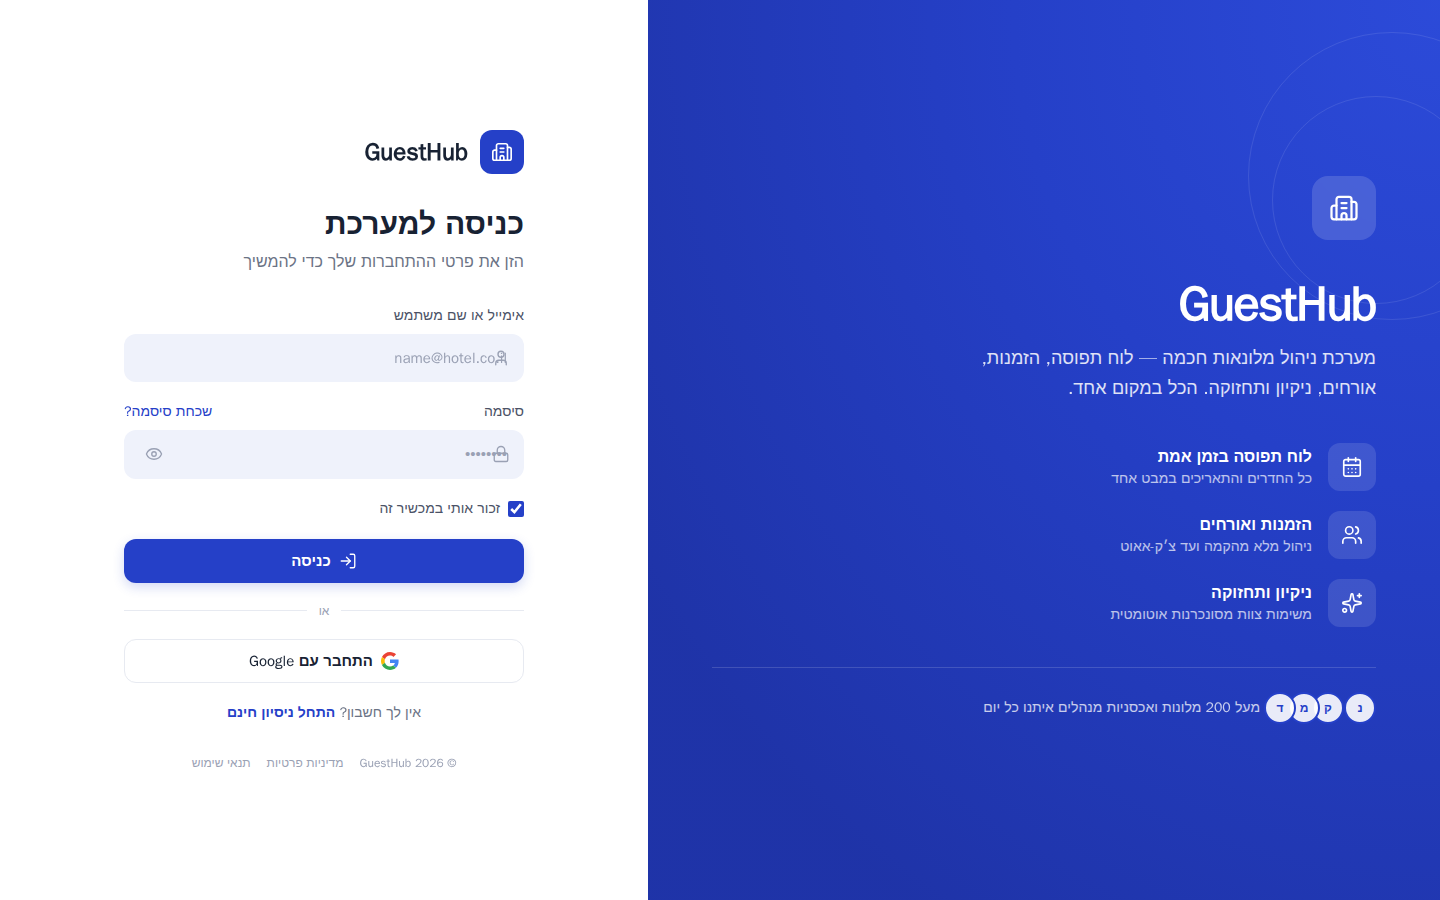
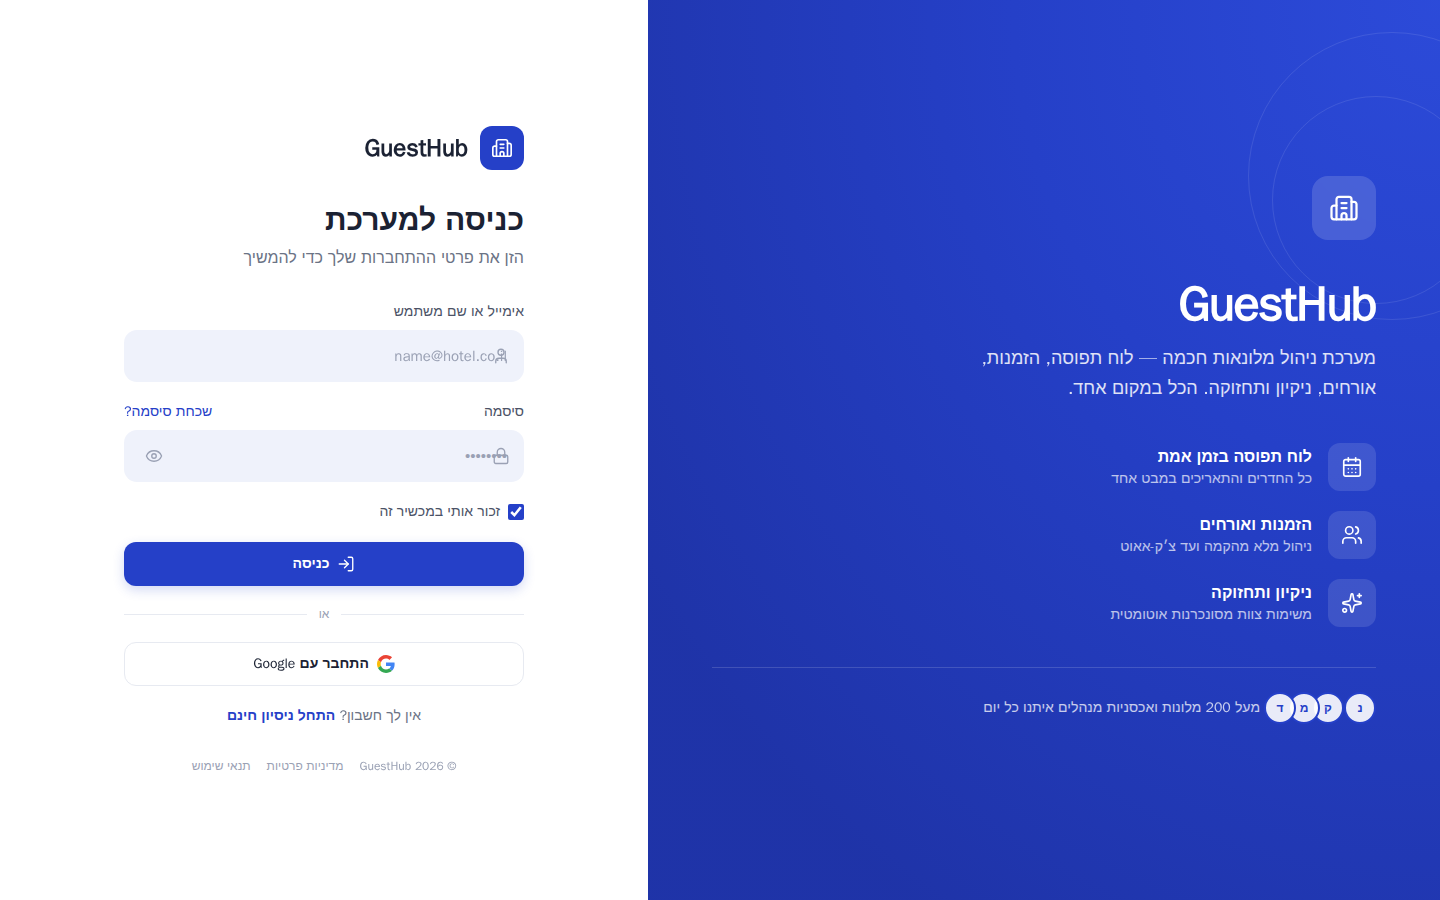
docs(design): binding DESIGN_SYSTEM.md from rendered design system; reconcile base.css
- Rendered ref/html/design-system.html headless (past 'Unpacking…'), captured every
  section to ref/proof/design-system-*.png, and extracted exact tokens from the
  rendered DOM (computed styles + on-screen hex).
- DESIGN_SYSTEM.md: colors, status palette, typography, radius/shadow, icons, and
  component patterns (buttons/inputs/cards/tabs/tables/SidePanel/badges/topbar/sidebar)
  with exact classes/tokens + when to use — a binding reference for every future phase.
- Reconcile base.css to the rendered values (DECISIONS D14): Ink #182233→#1B2233,
  .field radius 12→13px + height 48→52px, .btn 15/600→14/700 + 20px padding
  (min-height kept 44px for touch). Re-captured phase-1 proofs.
- PROJECT_OVERVIEW §17 now names DESIGN_SYSTEM.md as the binding design source; track
  the previously-untracked bundle.

diff --git a/src/app/styles/base.css b/src/app/styles/base.css
@@ -12,7 +12,7 @@
   --color-primary-050: #eef1fd;
 
   /* Text */
-  --color-ink: #182233; /* primary text */
+  --color-ink: #1b2233; /* primary text (rendered design-system value) */
   --color-text2: #4b5266;
   --color-muted: #6b7385;
   --color-faint: #9aa1b4; /* labels */
@@ -79,11 +79,11 @@ a:focus-visible {
   align-items: center;
   justify-content: center;
   gap: 0.5rem;
-  min-height: 44px; /* touch target */
-  padding: 0.625rem 1rem;
+  min-height: 44px; /* touch target — rendered sheet is 42px; rounded up for a11y (D14) */
+  padding: 0.5rem 1.25rem; /* 0 20px per rendered primary button */
   border-radius: 12px;
-  font-weight: 600;
-  font-size: 0.9375rem;
+  font-weight: 700;
+  font-size: 0.875rem; /* 14px */
   line-height: 1.2;
   transition:
     background-color 0.15s ease,
@@ -128,12 +128,12 @@ a:focus-visible {
 /* ---------- Form field ---------- */
 .field {
   width: 100%;
-  min-height: 48px;
+  min-height: 52px; /* rendered design-system input height */
   background: var(--color-field);
   border: 1px solid transparent;
-  border-radius: 12px;
+  border-radius: 13px; /* rendered design-system input radius */
   padding: 0.75rem 1rem;
-  font-size: 0.9375rem;
+  font-size: 0.9375rem; /* 15px */
   color: var(--color-ink);
   transition:
     border-color 0.15s ease,

diff --git a/DESIGN_SYSTEM.md b/DESIGN_SYSTEM.md
@@ -1,0 +1,165 @@
+# GuestHub — DESIGN_SYSTEM.md (v1.0)
+
+**Binding reference. Read this before building ANY UI in any phase.**
+
+Source of truth: the rendered design system `ref/html/design-system.html` (captured to
+`ref/proof/design-system-*.png`). Values below were extracted from the **rendered** DOM
+(computed styles + on-screen hex labels), never from the bundle source. Where a section is
+sourced from `PROJECT_OVERVIEW.md §16` instead (a component the sheet does not draw), it is
+marked _(spec: §16)_.
+
+Implementation lives in `src/app/styles/base.css` (`@theme` tokens + component classes). The
+token utilities named below (`bg-primary`, `text-ink`, …) are generated by Tailwind v4 from
+those `@theme` variables. **No `tailwind.config`.** RTL-first, logical properties only.
+
+---
+
+## 1. Color tokens
+
+### Brand
+| Token | Hex | Tailwind util | Use |
+|---|---|---|---|
+| Primary | `#2540C8` | `bg-primary` / `text-primary` | primary actions, active nav, brand |
+| Primary Dark | `#1C2E9A` | `bg-primary-dark` | primary button hover / pressed |
+| Primary 100 | `#D5DBF6` | `bg-primary-100` | subtle brand fills, chips |
+| Primary 050 | `#EEF1FD` | `bg-primary-050` | active nav pill, accent icon backgrounds |
+
+### Neutrals
+| Token | Hex | Tailwind util | Use |
+|---|---|---|---|
+| Ink (primary text) | `#1B2233` | `text-ink` | headings, primary body text |
+| Text 2 (nav) | `#4B5266` | `text-text2` | nav labels, secondary text, field labels |
+| Muted | `#6B7385` | `text-muted` | supporting/subtitle text |
+| Faint (labels) | `#9AA1B4` | `text-faint` | placeholders, section labels, meta |
+| Line (borders) | `#E7EAF1` | `border-line` | borders, dividers |
+| Field | `#EFF2FB` | `bg-field` | input backgrounds |
+| Surface | `#FFFFFF` | `bg-surface` | cards, sidebar, panels |
+| Hover / search | `#F2F4F8` | `bg-hover` | row hover, topbar search |
+| App BG | `#F1F3F8` | `bg-appbg` | page/app background |
+
+### Status palette (per status: `st` dot/icon · `bg` fill · `bd` border · `tx` text)
+| Status | st | bg | bd | tx |
+|---|---|---|---|---|
+| לא שולם / danger | `#DC2626` | `#FDECEC` | `#F4B9B9` | `#B4231F` |
+| שולם חלקית (teal) | `#0EA47B` | `#E4F6EE` | `#A6E2CC` | `#0B7355` |
+| שולם מלא / success | `#16A34A` | `#E7F6EC` | `#AADDB7` | `#15803D` |
+| ממתין להעברה (purple) | `#7C3AED` | `#F2ECFD` | `#D0BFF6` | `#6B27D6` |
+| ממתין לאישור / warning | `#EA9314` | `#FDF2E1` | `#F5D19A` | `#B4670A` |
+| נכשל / rose | `#E11D48` | `#FDE7EC` | `#F5AEC0` | `#BE123C` |
+| הוחזר / slate | `#64748B` | `#EEF1F5` | `#CBD5E1` | `#475569` |
+| בוטל / muted | `#94A3B8` | `#F1F3F6` | `#D9DEE6` | `#64748B` |
+| סגור·חסום / dark slate | `#475569` | `#E9ECF1` | `#C4CBD6` | `#334155` |
+
+`base.css` exposes the ones used so far: `--color-status-danger #DC2626`, `-success #16A34A`,
+`-warning #EA9314`, `-info #2540C8`, `-purple #7C3AED`, and `--color-status-danger-050 #FDECEC`.
+Add the `bg`/`bd`/`tx` variants as tokens when the status-badge component is built.
+
+**Status is rendered as a right border** — `border-r-4` in the status `st` color (overview §4.4),
+never as dots/badges on rows.
+
+---
+
+## 2. Typography
+
+Single font: **Assistant** (Google Fonts), weights 300–800. RTL; numbers & dates always LTR.
+
+| Role | Size | Weight | Notes |
+|---|---|---|---|
+| H1 / page title | 30px | 800 | e.g. "כניסה למערכת" |
+| Logo / H2 | 20.5px | 800 | |
+| Topbar / section title | 18.5px | 800 | e.g. "יומן חדרים" |
+| Field text | 15px | 400 | input value/placeholder |
+| Nav item | 14.5px | 500 | sidebar links |
+| Body | 14px | 400 | default body |
+| Subtitle | 13px | 600 | e.g. tenant line |
+| Label | 11.5px | 700 | group labels, meta caps |
+
+---
+
+## 3. Spacing · Radius · Shadow
+
+**Radius scale:** `9px · 11px · 12px · 13px · 16px · 20px`
+- 12px — buttons · 13px — inputs/fields · 16px — cards (`--radius-card`) · 20px — SidePanel (`--radius-panel`) · 9–11px — chips/badges/small controls.
+
+**Shadows (exact):**
+- Card — `0 6px 20px rgba(16,24,40,.03)` → `--shadow-card`
+- Primary button — `0 4px 12px rgba(37,64,200,.2)` → `--shadow-primary`
+- Focus ring — `0 0 0 4px rgba(37,64,200,.12)` (applied via `.focus-ring` / `.field:focus`)
+
+**Padding minimums** (project iron rule): Button `px-4 py-2`, Card `p-4`(≥), Input `px-3 py-2`,
+Badge `px-2 py-0.5`, Table cell `px-4 py-3`, Modal/Panel `p-6`. Content never touches a border.
+
+**Touch target:** every interactive control ≥ 44×44px (the rendered sheet draws 42px buttons /
+40px icon buttons; we round **up** to 44 for accessibility — see DECISIONS D14).
+
+---
+
+## 4. Icons
+
+Rendered sheet: **Material Symbols Outlined**, weight 400, sizes 20/22/24px, always LTR.
+**Implementation uses `lucide-react`** via the single mapper `src/components/shared/Icon.tsx`
+(DECISIONS D3) — reference every glyph by its semantic name, never import lucide directly in a
+component. Pick the closest lucide equivalent to the Material Symbol.
+
+---
+
+## 5. Component patterns
+
+Classes marked `.btn` etc. exist in `base.css`. Utilities like `bg-primary` come from `@theme`.
+
+### Buttons — height 44px (touch), radius 12px, font 14px/700, gap-2
+- **Primary** `.btn .btn-primary` — bg `#2540C8`, white text, `--shadow-primary`; hover → Primary Dark.
+  Padding `0 20px`. Use for the single main action (CTA, submit, "הזמנה חדשה").
+- **Outline / filter** `.btn .btn-outline` (borders) / `.btn-filter` (weight 500) — Surface bg,
+  Line border, Ink/Text2 text; hover → Hover. Use for secondary actions and filter chips ("סינון").
+- **Ghost** — primary-colored text, no bg/border (e.g. "פעולה משנית"). Low-emphasis inline action.
+- **Icon button** — 44×44 grid, `rounded-xl`, `text-muted`, `hover:bg-hover`. Topbar/toolbar icons.
+- **Avatar chip** — `h-9 w-9 rounded-xl bg-primary text-white` with the user initial.
+
+### Inputs / fields — `.field` : Field bg `#EFF2FB`, radius 13px, min-height 52px, font 15px
+- Placeholder in Faint. Focus → Surface bg + Primary border + focus ring.
+- Leading icon sits on the **inline-start (right in RTL)**; pad the opposite side (`ps-11`/`pe-11`)
+  to clear it. Search field: same field styling with a leading `search` icon.
+- **Checkbox** — `h-4 w-4 rounded accent-primary`; label in Text2.
+
+### Cards _(spec: §16)_
+`bg-surface border border-line rounded-2xl` (16px) + `--shadow-card`; inner padding `p-6`.
+**KPI card:** `min-h-[140px]`, a 48px accent icon square (`bg-primary-050`, `text-primary`), value in
+H1 weight, label in Muted.
+
+### Tabs — Variation 3 _(spec: §16)_
+Track `bg-[#f4f2fc] p-1 rounded-xl`; active tab `bg-white text-primary shadow-sm font-semibold
+rounded-lg`; inactive tab Muted text, transparent. Use for in-page view switches.
+
+### Tables _(spec: §16)_
+Header row Faint/Label type; cells `px-4 py-3`; row `hover:bg-hover`; borders `border-line`.
+Status shown as a leading `border-r-4` in the status color — not a badge. `@tanstack/react-table`.
+
+### SidePanel _(spec: §16)_ — replaces all modals
+Slides in from the inline-start (left in RTL), 55% width desktop / 100% mobile, radius 20px,
+header bar in Primary, `--shadow-pop`. Use for every form / detail / wizard. **No centered modals.**
+
+### Badges / status pills _(spec: status palette above)_
+Small pill `rounded-full px-2 py-0.5 text-xs`, using a status row's `bg`+`bd`+`tx`. On table/calendar
+rows prefer the `border-r-4` status bar over a pill.
+
+### Topbar — height 64px, white 92% + backdrop-blur, `border-b border-line`
+Right (inline-start): section title + tenant subtitle. Left cluster (inline-end): search field, then
+`translate` / `notifications` / `dark_mode` icon buttons, then the avatar chip.
+
+### Sidebar — width **250px** (collapsed 76px), Surface bg, `border-e border-line`
+Brand row (logo + "GuestHub / Property Management") → primary "הזמנה חדשה" CTA → grouped nav
+(group label 11.5px/700 Faint) → bottom user card + red "התנתקות".
+Nav-item states:
+- **רגיל** — Text2, transparent, `rounded-xl`.
+- **Hover** — `bg-hover`.
+- **פעיל (active)** — `bg-primary-050 text-primary font-semibold` + a Primary accent bar on the
+  inline-start edge (`absolute inset-y-2 start-0 w-1 rounded-full bg-primary`).
+- **עם מונה** — trailing count badge (`bg-primary text-white rounded-full`), when the module has one.
+
+---
+
+## 6. Layout rules
+RTL-first (`<html dir="rtl">`), logical CSS properties (`start`/`end`, `ms`/`me`, `ps`/`pe`) — never
+hard-coded left/right. Mobile-first responsive. `globals.css` is import-only; all CSS in
+`app/styles/`. Every screen ships loading / empty / error / hover / focus / active states.

diff --git a/DECISIONS.md b/DECISIONS.md
@@ -81,6 +81,16 @@ review). The migration now `REVOKE`s all privileges from `anon`/`authenticated` 
 Tenant isolation is enforced solely server-side via `actor.tenantId`. If PostgREST exposure is ever
 required, it must come with RLS + tenant-scoped policies on every table.
 
+## D14 — base.css reconciled to the freshly-rendered design system
+`ref/html/design-system.html` was rendered headless (past "Unpacking…") and captured to
+`ref/proof/design-system-*.png`; tokens were read from the rendered DOM. This resolved the earlier
+OCR ambiguity from D1 and surfaced small conflicts, now corrected in `base.css`:
+- **Ink** `#182233` → **`#1B2233`** (the rendered value; D1 had the OCR'd hex).
+- **`.field`** radius `12px` → **`13px`**, min-height `48px` → **`52px`** (rendered input).
+- **`.btn`** font `15px/600` → **`14px/700`**, horizontal padding `16px` → **`20px`** (rendered button).
+- **`.btn` min-height kept at 44px** though the sheet draws 42px — the 44px touch-target floor wins.
+The full token/typography/component spec now lives in the binding `DESIGN_SYSTEM.md`.
+
 ## D13 — Session-without-active-user is signed out (no redirect loop)
 The Edge middleware only knows the GoTrue session; `getActor()` additionally requires an active
 `guesthub.users` row. A valid session with no active user (deactivated, unlinked, or a foreign

diff --git a/PROJECT_OVERVIEW.md b/PROJECT_OVERVIEW.md
@@ -229,6 +229,8 @@ RTL-first, עברית. נקי ויוקרתי, לא צבעוני מדי, לא Exc
 
 # 17. מקורות עיצוב
 
+**`DESIGN_SYSTEM.md` בשורש הוא מקור האמת המחייב לעיצוב (טוקנים, טיפוגרפיה, רכיבים). חובה לקרוא אותו לפני בניית כל UI בכל שלב.** הוא נגזר מה-design system המרונדר ומנצח על ניחושים.
+
 ```text
 docs/design/screens/     ← צילומי מסך PNG — מקור האמת הוויזואלי הראשי
 docs/design/html/        ← קבצי HTML — מקור עזר, רק אם מרונדרים בפועל